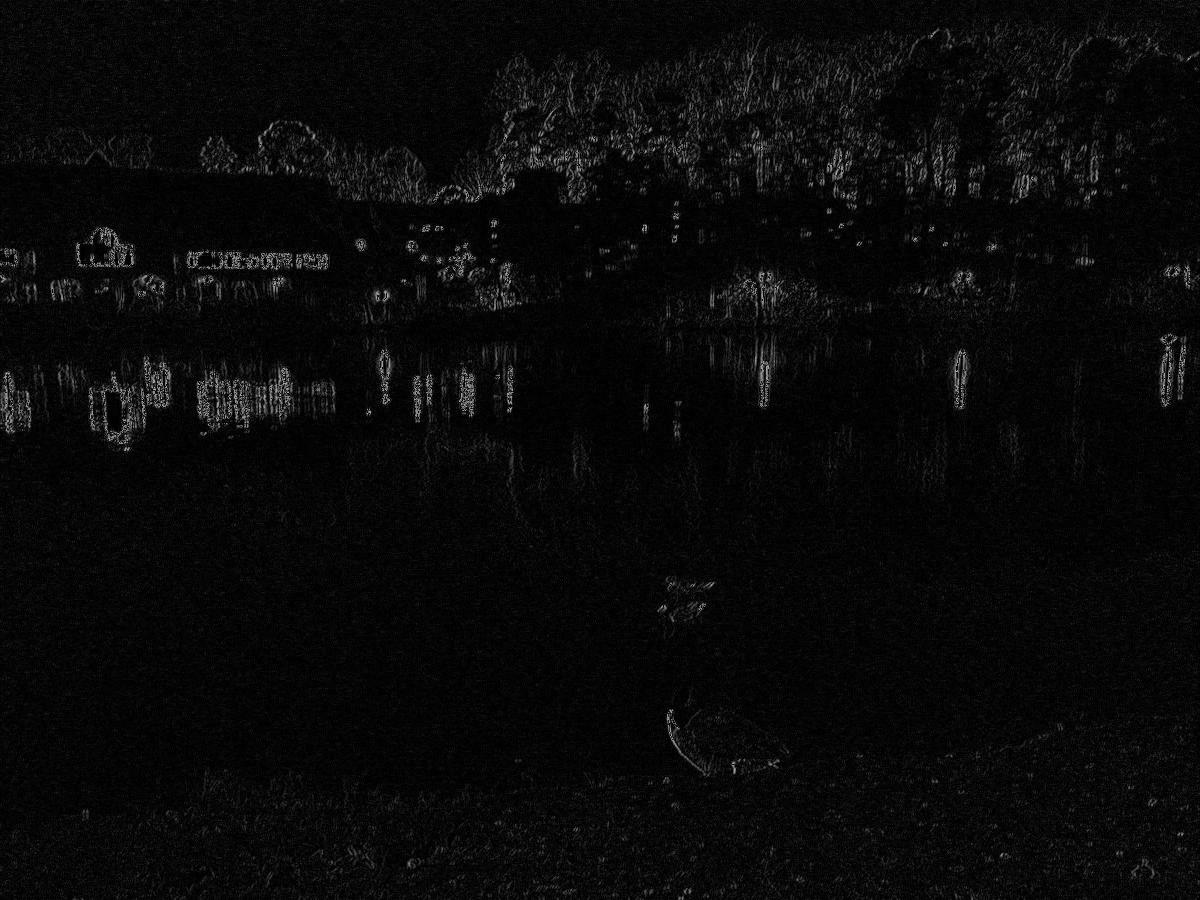
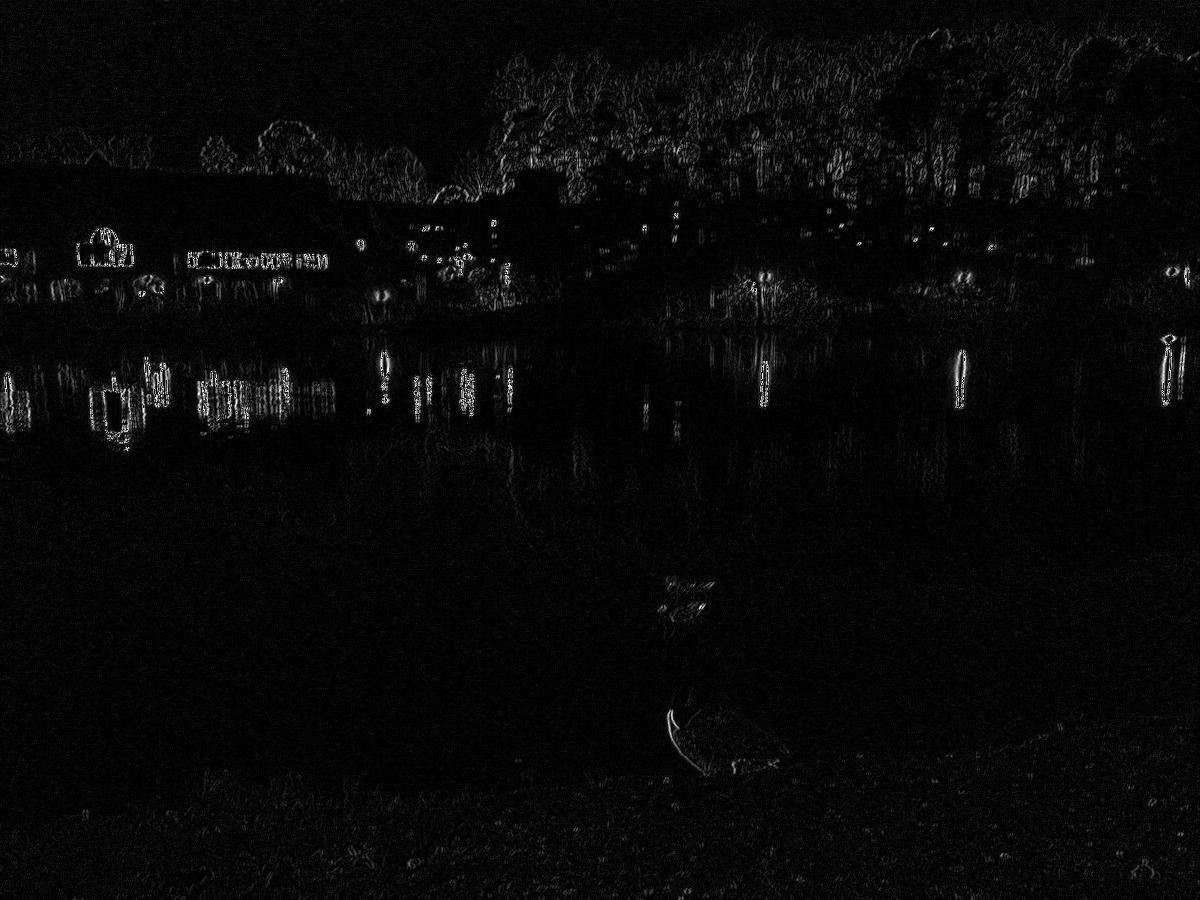
remove energy pow

diff --git a/seam-carving/src/net/seamcarving/carve/Energy.java b/seam-carving/src/net/seamcarving/carve/Energy.java
@@ -2,7 +2,6 @@ package net.seamcarving.carve;
 
 import java.awt.*;
 
-import static java.lang.StrictMath.pow;
 import static java.lang.StrictMath.sqrt;
 
 public class Energy {
@@ -21,8 +20,8 @@ public class Energy {
                 int g = color1.getGreen() - color2.getGreen();
                 int b = color1.getBlue() - color2.getBlue();
 
-                Color ensq = new Color((int)sqrt(pow(r + g + b, 2))); //calculating energy
-                int midensq = (int) ((ensq.getRed() + ensq.getBlue() + ensq.getGreen())/1.5); //calculating arithmetic mean
+                Color ensq = new Color((int)sqrt(r*r + g*g + b*b)); //calculating energy
+                int midensq = ensq.getRed() + ensq.getBlue() + ensq.getGreen(); //calculating arithmetic mean
 
                 Color newColor = new Color(midensq, midensq, midensq); //making image mono-chrome
 
